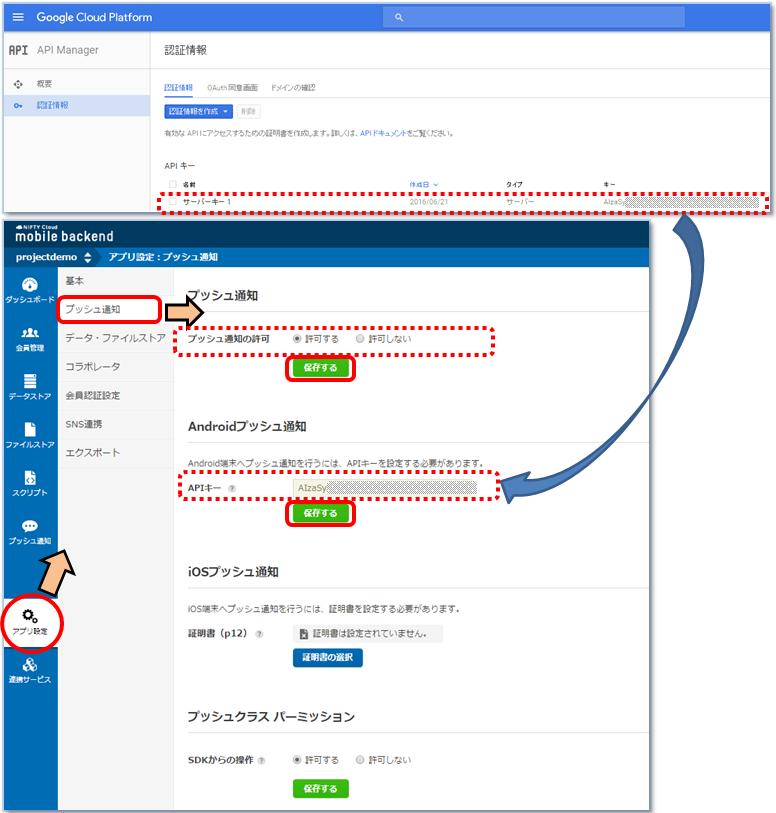
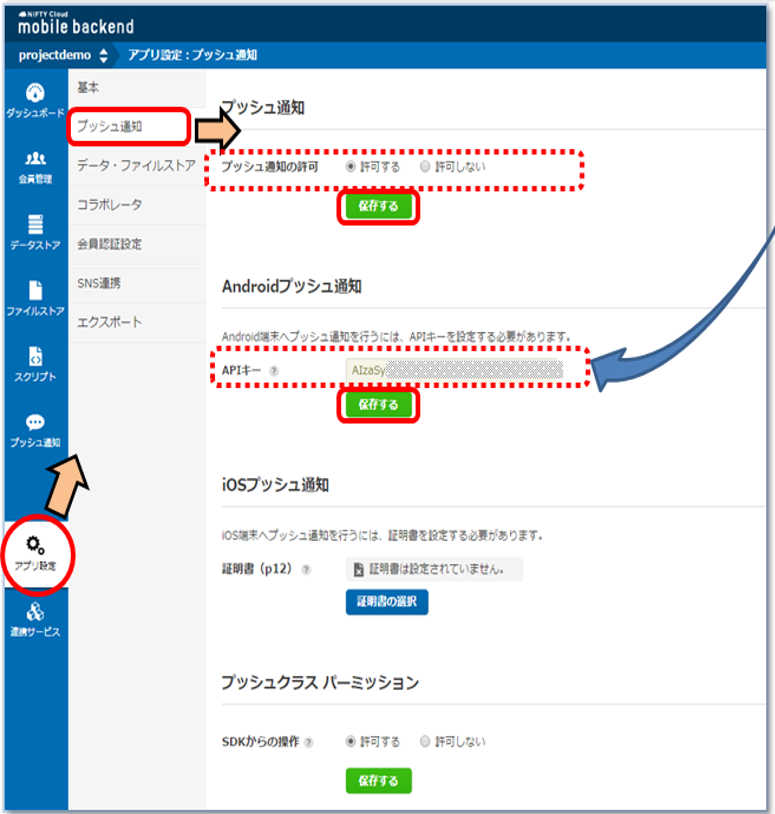
update GCM to FCM
・ドキュメント修正（GCM→FCM）
・不要な画像の削除
・画像の修正

diff --git a/README.md b/README.md
@@ -4,12 +4,12 @@
 
 ## 概要
 
-* [ニフティクラウドmobile backend](http://mb.cloud.nifty.com/)のプッシュ通知機能は、Googleが提供しているCloud Messaging（以下、GCM）と連携することで、通知の配信を行っています
+* [ニフティクラウドmobile backend](http://mb.cloud.nifty.com/)のプッシュ通知機能は、Googleが提供しているFirebase Cloud Messaging（以下、FCM）と連携することで、通知の配信を行っています
 * Androidアプリでプッシュ通知を受信するまでの設定は以下のような流れとなっています
-   * GCMの設定とAPIキーの取得
-   * ニフティクラウド mobile backendでの設定
-   * アプリでの設定
-* 詳しい設定内容は[プッシュ通知（Android）](http://mb.cloud.nifty.com/doc/current/push/basic_usage_android.html)を参照ください
+ * FCMプロジェクトの作成とAPIキーの取得
+ * ニフティクラウド mobile backendでの設定
+ * アプリでの設定
+* 詳しい設定内容は[プッシュ通知（Android）](http://mb.cloud.nifty.com/doc/current/push/basic_usage_android.html)をご参照ください
 
 ## ニフティクラウドmobile backendって何？？
 スマートフォンアプリのバックエンド機能（プッシュ通知・データストア・会員管理・ファイルストア・SNS連携・位置情報検索・スクリプト）が**開発不要**、しかも基本**無料**(注1)で使えるクラウドサービス！今回はデータストアを体験します
@@ -29,28 +29,14 @@
 ## 手順
 ### 0.プッシュ通知機能使うための準備
 
-* [Google Cloud Platform](https://console.cloud.google.com/) にログインします
-* GCMを利用するためプロジェクトを作成し、APIキー（認証用の鍵）を発行します
+ニフティクラウド mobile backendと連携させるためのAPIキーを取得する必要があります。 以下のドキュメントを参考に、FCMプロジェクトの作成とAPIキーの取得を行ってください。
 
-![画像a2](/readme-img/a002.png)
+[mobile backendとFCMの連携に必要な設定](https://github.com/NIFTYCloud-mbaas/ncmb_doc/blob/hotfix/fcm_changes/doc/current/tutorial/push_setup_android.html)
 
-![画像a3](/readme-img/a003.png)
+### 1. [ニフティクラウドmobile backend](http://mb.cloud.nifty.com/)の準備
 
-![画像a4](/readme-img/a004.png)
-
-* プロジェクトコードの確認をします
- 
-![画像a5](/readme-img/a005.png)
-
-* GCMの有効化の設定をします
-
-![画像a6](/readme-img/a006.png)
-
-* 準備は以上です
-
-### 1. [ニフティクラウドmobile backend](http://mb.cloud.nifty.com/)の会員登録とログイン→アプリ作成
-
-* 上記リンクから会員登録（無料）をします登録ができたらログインをすると下図のように「アプリの新規作成」画面が出るのでアプリを作成します
+* 上記リンクから会員登録（無料）をします
+* 登録後、ログインをすると下図のように「アプリの新規作成」画面が出ますので、アプリを作成します
 
 ![画像3](/readme-img/mBassNewProject.png)
 
@@ -59,13 +45,13 @@
 
 ![画像4](/readme-img/mBassAPIkey.png)
 
-* 動作確認後installationクラス(端末情報)が保存される場所も確認しておきましょう
+* 動作確認後、端末情報が保存される場所（データストアのinstallationクラス）を確認しておきましょう
 
 ![画像5](/readme-img/mBassData.png)
 
-* ダッシュボードからアプリ設定→プッシュ通知の設定を行う
-   * プッシュ通知の許可するを設定し、保存します
-   * Google Developer Consoleで取得したAPIキーを設定し、保存します
+* アプリ設定開いてプッシュ通知の設定をします
+   * 「プッシュ通知の許可」で「許可する」選択、「保存する」をクリックします
+   * 「Androidプッシュ通知」の「APIキー」には、FCMでプロジェクト作成時に発行された「Sender ID」を記入し、「保存する」をクリックします
 
 ![画像6](/readme-img/mBassPushEnv.png)
 
@@ -94,21 +80,20 @@
 * それぞれ`YOUR_APPLICATION_KEY`と`YOUR_CLIENT_KEY`の部分を書き換えます
  * このとき、ダブルクォーテーション（`"`）を消さないように注意してください！
 
-### 5. Androidのsender IDキーの設定
+### 5. AndroidのSender IDキーの設定
 
-* GCMから作成されたプロジェクトの後につく番号(#以降数字)が、sender IDです
 * `MainActivity.java`を編集します
 
-![画像10](/readme-img/GCMAPIkey.png)
+![画像10](/readme-img/FCMAPIkey.png)
 
-* `ANDROID_SENDER_ID`の部分を書き換えます
+* `ANDROID_SENDER_ID`の部分を、FCMでプロジェクト作成時に発行された「Sender ID」に書き換えます
  * このとき、ダブルクォーテーション（`"`）を消さないように注意してください！
- 
+
 ### 6. 動作確認
 
 * インストールしたアプリを起動します
  * プッシュ通知の許可を求めるアラートが出たら、必ず許可してください！
- 
+
 ![画像11](/readme-img/Action1.png)
 
 * 起動されたらこの時点でAndroid端末はレジスタレーションIDが取得されます
@@ -146,7 +131,7 @@
 #### ロジック
  * `activity_main.xml`でデザインを作成し、`MainActivity.java`にロジックを書いています
  *  installationクラス(端末情報)が保存される処理は以下のように記述されます
- 
+
 ```java
 
     protected void onCreate(Bundle savedInstanceState) {
@@ -156,7 +141,7 @@
 
         final NCMBInstallation installation = NCMBInstallation.getCurrentInstallation();
 
-        //GCMからRegistrationIdを取得しinstallationに設定する
+        //FCMからRegistrationIdを取得しinstallationに設定する
         installation.getRegistrationIdInBackground("ANDROID_SENDER_ID", new DoneCallback() {
             //installation.getRegistrationIdInBackground("senderId", new DoneCallback() {
                 @Override
@@ -187,4 +172,3 @@
 
 ## 参考
 * ニフティクラウドmobile backend の[ドキュメント（プッシュ通知（Android））](http://mb.cloud.nifty.com/doc/current/push/basic_usage_android.html)をご用意していますので、ご活用ください
-
